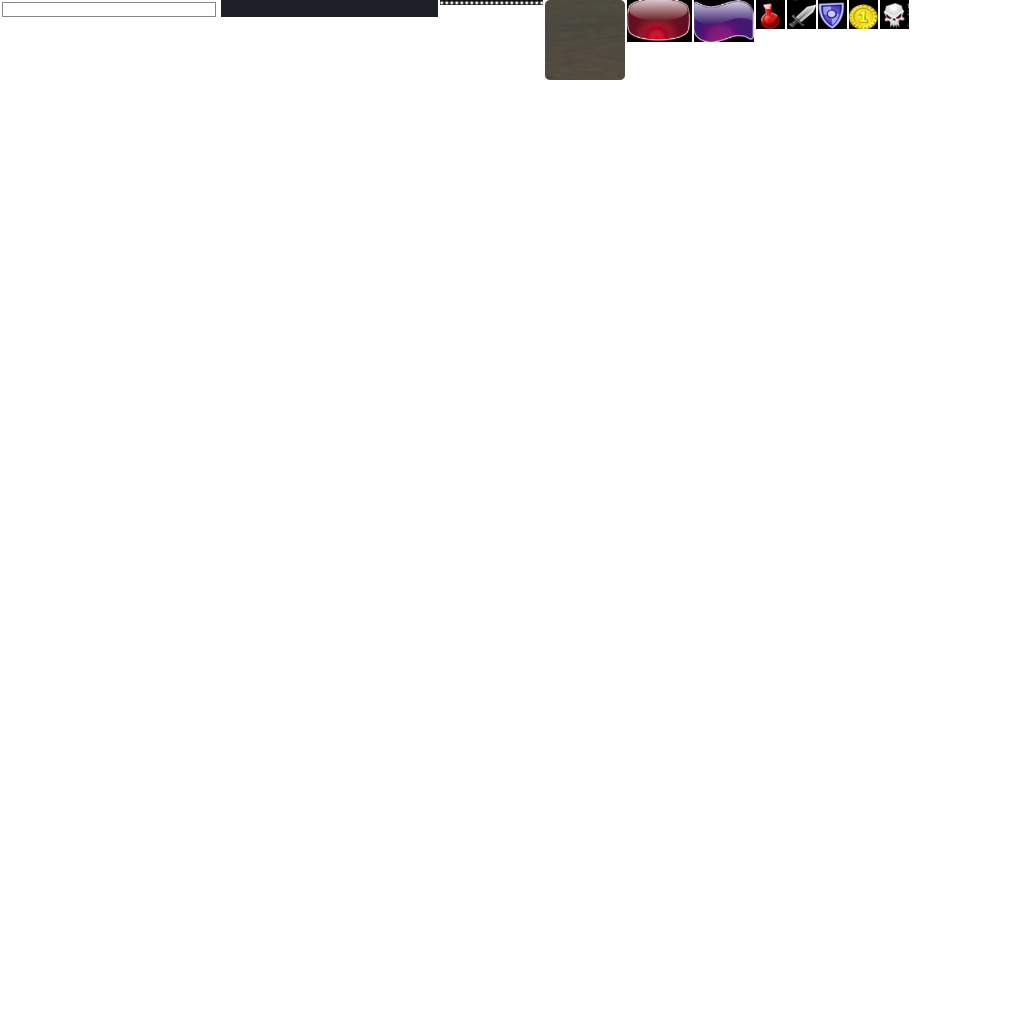
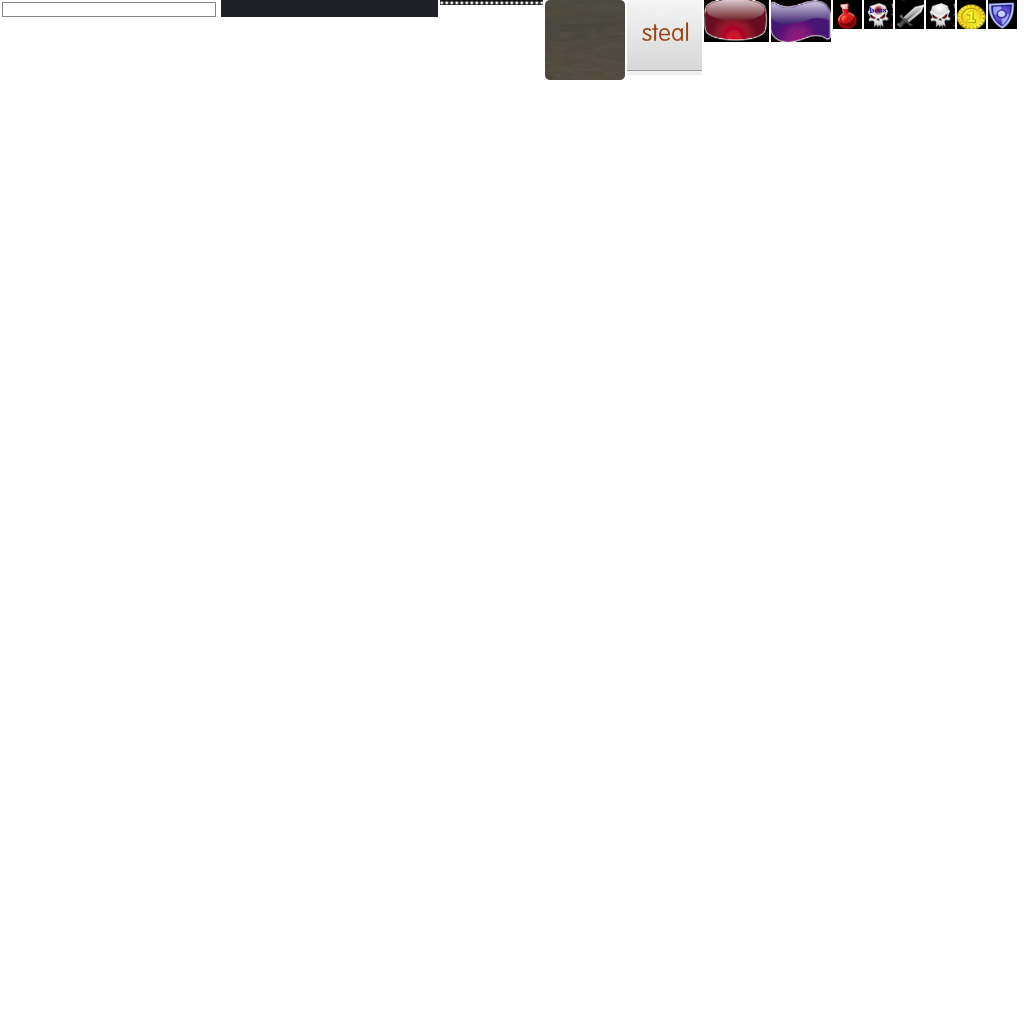
修改了boss图片资源

Changed region(s): [[0.5938, 0.0, 1.0, 0.0938]]

diff --git a/DR/projects/DRGame/Classes/UI/Layer/MainGameGridLayer.cpp b/DR/projects/DRGame/Classes/UI/Layer/MainGameGridLayer.cpp
@@ -180,7 +180,11 @@ void MainGameGridLayer::addGridCell(unsigned int rIndex,unsigned int vIndex)
             case kElementType_Monster:
             {
                 //select monster image according to the type
-                typeStr=CCString::create("Grid_cell_monster.png");              //暂时写成固定
+                if (blockProperty->mMonsterProperty.mType==kBustyType_Common) {
+                    typeStr=CCString::create("Grid_cell_monster.png");
+                }else if (blockProperty->mMonsterProperty.mType==kBustyType_Boss){
+                    typeStr=CCString::create("Grid_cell_boss_monster.jpg");
+                }
             }
                 break;
             case kElementType_Sword:
